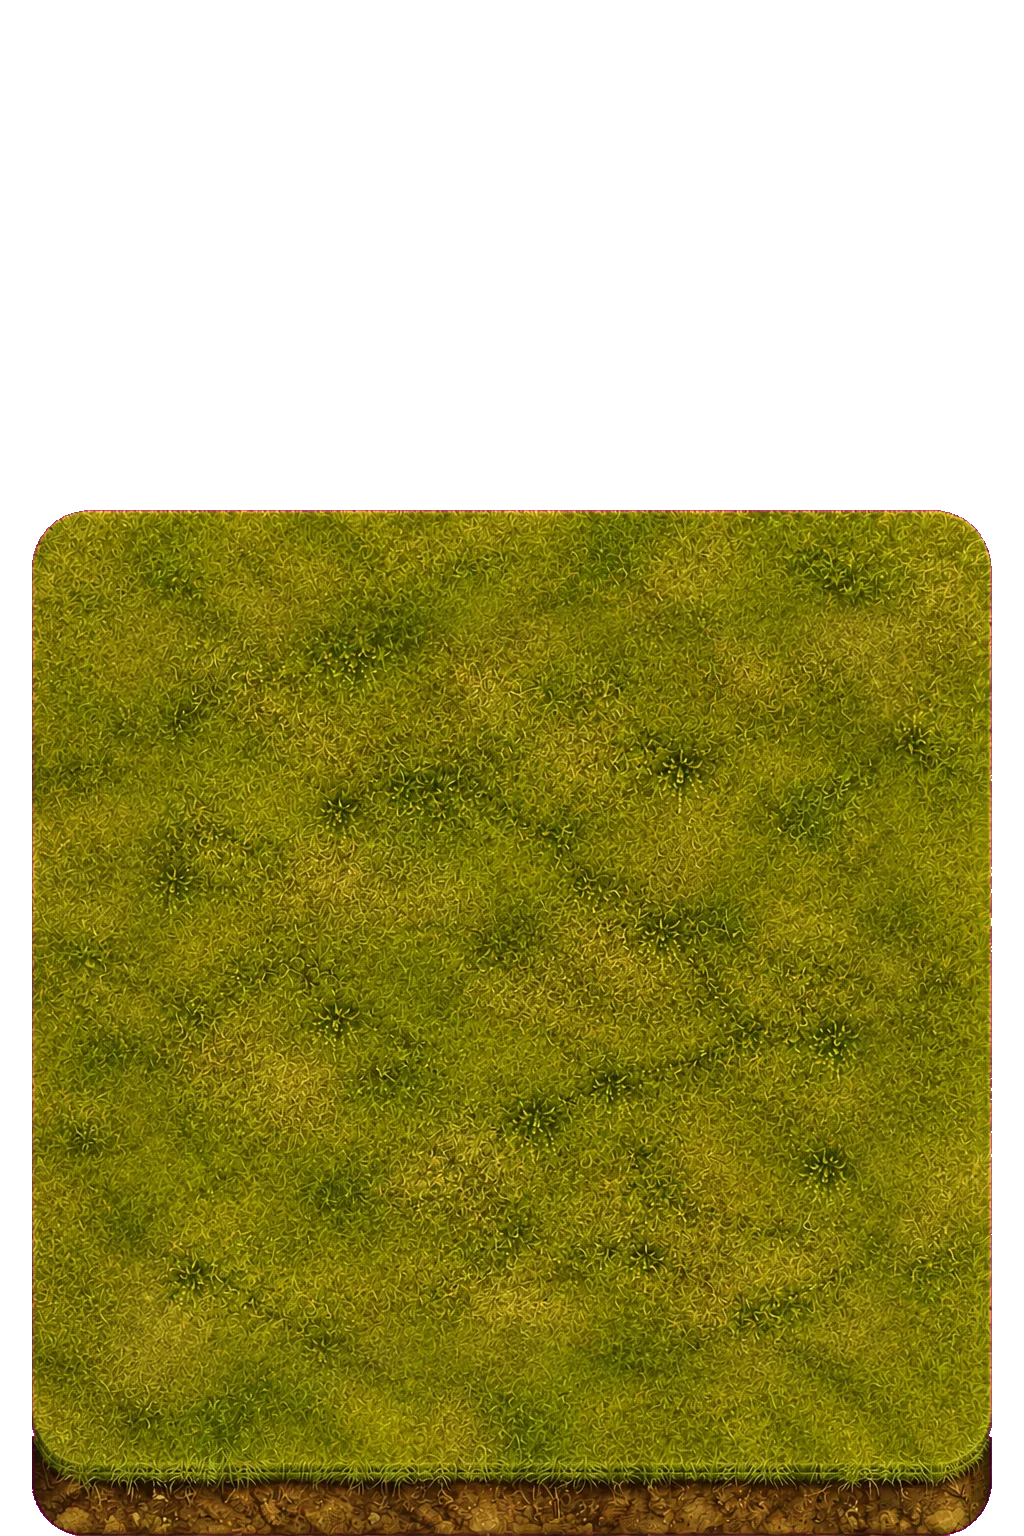
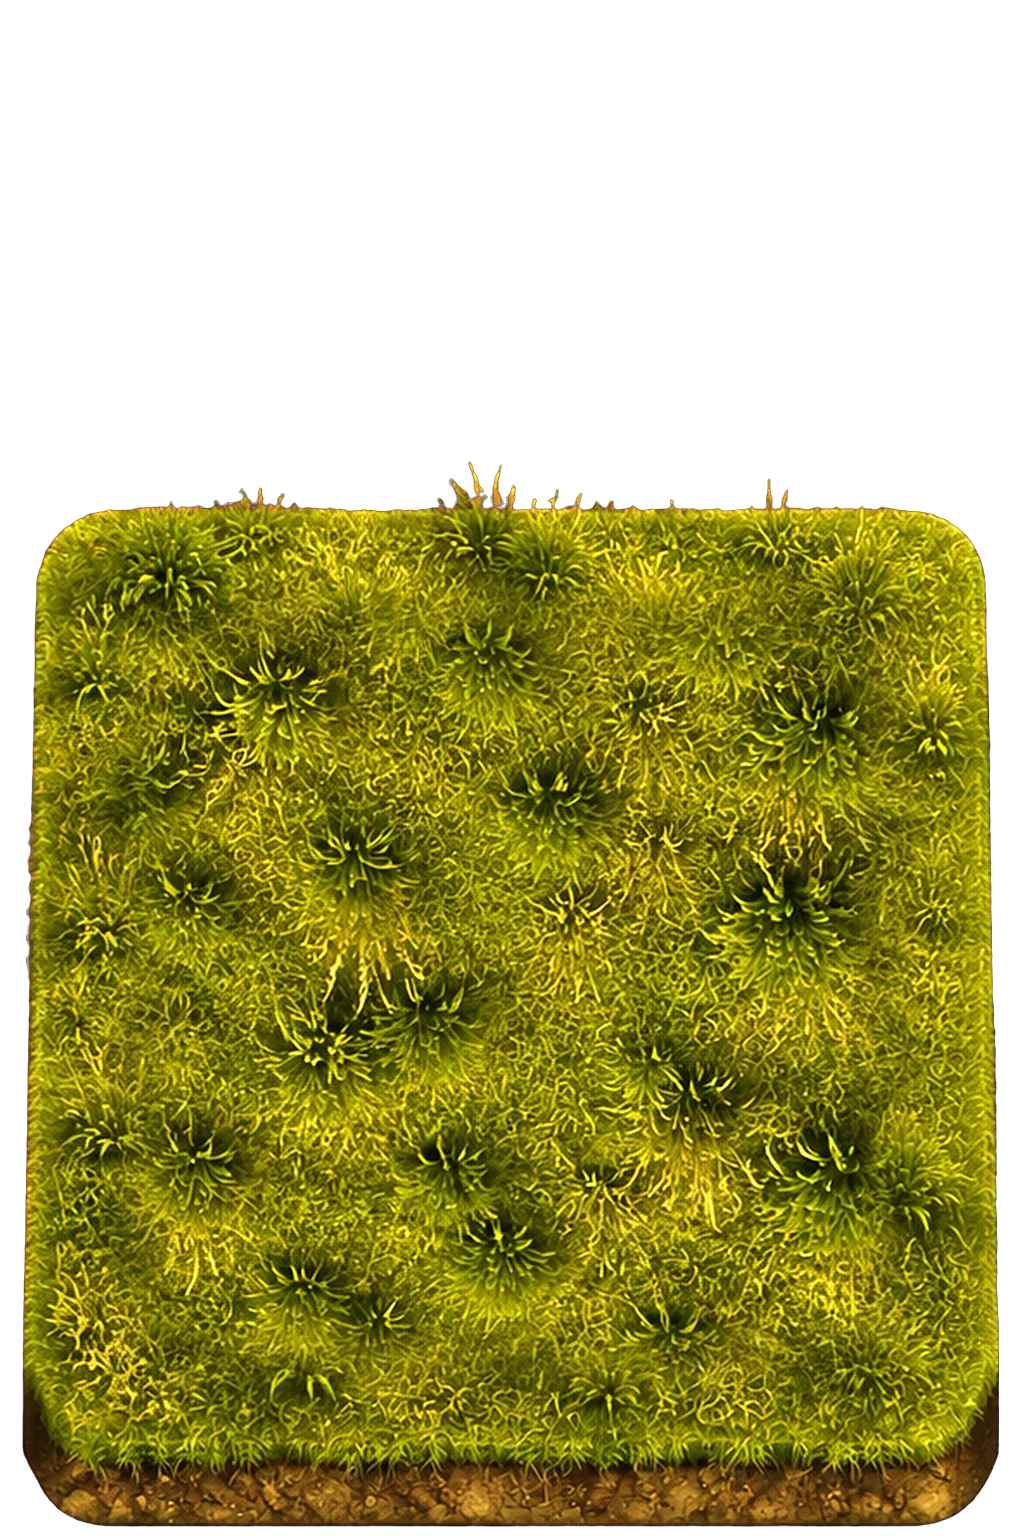
Grass v4: tufty grassland tiles, 16 grass details, a percentage detail rule
Visual only: no terrain type, rule or movement change. TERRAIN_STYLE 'v1'
still draws the old board untouched (the v1 path is not touched by this).

ART
- assets/terrain/v2/grass/ replaced with the grass v4 set: the 6 plain tiles
  (same names and canvas) and 16 detail tiles in grass/detail/ (grass_7 to
  grass_22). The 11 old detail files are deleted; nothing else used them.
- docs/terrain-v2/grass-v4/: the plan, the detail sheet, the target mockups
  and the expected 1v1 result, for the record. Not loaded by the game.

CODE (js/terrain-v2.js)
- GRASS_DETAIL_COUNT 16; GRASS_DETAIL_FILES in the new order (index = detail
  number).
- GRASS_DETAIL_ONE_IN = 5 replaced by GRASS_DETAIL_PERCENT = 30, tested as
  h(x,y,7) % 100 < GRASS_DETAIL_PERCENT. Why: "one in 4" gave fewer details
  than "one in 5" on this map because of where the hash lands; a
  percentage scales predictably. 30 gives 20 detail squares on the 1v1 map
  (was 15). The open-ground, farm-overlay and neighbour checks are unchanged,
  and the detail is still chosen by h(x,y,8) % GRASS_DETAIL_COUNT. Comment
  above grassPicks updated.
- render-units.js (preload) and check-assets.mjs read GRASS_DETAIL_FILES and
  picked up the new list with no change (asset check: 202 references, all
  present).
- Flagged and fixed: render-board.js had the old count written in twice,
  outside those two readers: the list of tiles the intro waits for (11
  details) and the number of v2 images the board cache expects (39). Both
[…]

diff --git a/js/terrain-v2.js b/js/terrain-v2.js
@@ -19,14 +19,19 @@ export function h(x, y, salt){
 const hPos = (x, y, s) => { const v = h(x, y, s); return v < 0 ? v + 1000003 : v; };
 
 export const GRASS_PLAIN_COUNT = 6;
-export const GRASS_DETAIL_COUNT = 11;           // grass/detail: grass_7 .. grass_17
-export const GRASS_DETAIL_ONE_IN = 5;           // one open square in this many may get a detail; lower it for more
+export const GRASS_DETAIL_COUNT = 16;           // grass/detail: grass_7 .. grass_22 (grass v4)
+/* The share of eligible squares that get a detail, as a percentage of the
+   h(x,y,7) range. A percentage scales predictably; the old "one in N" rule did
+   not (one in 4 gave fewer details than one in 5 on the 1v1 map, because of
+   where the hash lands). 30 gives 20 detail squares on the 1v1 map. */
+export const GRASS_DETAIL_PERCENT = 30;
 export const HILL_COUNT = 7;
 export const WOODS_COUNT = 4;
 export const FARM_COUNT = 4;
-export const GRASS_DETAIL_FILES = ['grass_7_lone_oak', 'grass_8_hawthorn', 'grass_9_poplars', 'grass_10_weeds_thistles',
-  'grass_11_campfire', 'grass_12_reed_pond', 'grass_13_shattered_stump', 'grass_14_broken_cart', 'grass_15_haystack',
-  'grass_16_fallen_posts', 'grass_17_stone_trough'];
+export const GRASS_DETAIL_FILES = ['grass_7_oak_single', 'grass_8_oak_pair', 'grass_9_oak_trio', 'grass_10_oak_pair_right',
+  'grass_11_poplars_weeds', 'grass_12_poplars_oak', 'grass_13_hedge_solo', 'grass_14_hedge_solo_left', 'grass_15_campfire_oak',
+  'grass_16_campfire_poplars_cart', 'grass_17_haystack_oak', 'grass_18_trough_oak', 'grass_19_pond_oak', 'grass_20_stump_weeds',
+  'grass_21_cart_stump', 'grass_22_posts_oak'];   // index = detail number
 
 /* ---------------------------------------------------------
    Farm overlay squares on the assembled map. Local board coordinates are
@@ -47,10 +52,11 @@ export function farmOverlaySet(layouts, placements, half, rotatePoint){
 
 /* ---------------------------------------------------------
    Grass. Plain: h(x,y,0) % 6, moved on to the next variant while it matches
-   the square to the left or above. Detail (grass/detail): only on OPEN squares
-   that are not farm overlay squares, one in GRASS_DETAIL_ONE_IN by h(x,y,7),
-   never beside another detail to the left, above, above-left or above-right;
-   which detail by h(x,y,8). Returns rows of { plain: 1..6, detail: 0..10 | -1 }.
+   the square to the left or above. Detail (grass/detail, 16 files): only on
+   OPEN squares that are not farm overlay squares, when h(x,y,7) % 100 is below
+   GRASS_DETAIL_PERCENT, never beside another detail to the left, above,
+   above-left or above-right; which detail by h(x,y,8) % GRASS_DETAIL_COUNT.
+   Returns rows of { plain: 1..6, detail: 0..15 | -1 }.
 --------------------------------------------------------- */
 export function grassPicks(terrain, overlay){
   const rows = terrain.length, cols = terrain[0].length;
@@ -62,7 +68,7 @@ export function grassPicks(terrain, overlay){
       const left = x > 0 ? row[x - 1].plain - 1 : -1, above = y > 0 ? out[y - 1][x].plain - 1 : -1;
       for(let k = 0; k < GRASS_PLAIN_COUNT && (p === left || p === above); k++) p = (p + 1) % GRASS_PLAIN_COUNT;
       let detail = -1;
-      if(terrain[y][x] === 'OPEN' && !overlay.has(x + ',' + y) && hPos(x, y, 7) % GRASS_DETAIL_ONE_IN === 0){
+      if(terrain[y][x] === 'OPEN' && !overlay.has(x + ',' + y) && hPos(x, y, 7) % 100 < GRASS_DETAIL_PERCENT){
         const near = [[x - 1, y], [x, y - 1], [x - 1, y - 1], [x + 1, y - 1]].some(([nx, ny]) =>
           ny >= 0 && nx >= 0 && nx < cols && (ny === y ? row[nx] : out[ny][nx]).detail >= 0);
         if(!near) detail = hPos(x, y, 8) % GRASS_DETAIL_COUNT;

diff --git a/js/render-board.js b/js/render-board.js
@@ -1,6 +1,6 @@
 import { AudioManager } from './audio-manager.js';
 import { CELL, COLS, HALF_COLS, ROWS, SIDES, SIDE_LABEL, TB_DATA, TERRAIN_STYLE, UNIT_TYPES, edgeKey, rotatePointCW, setCell, state } from './data-core.js';
-import { ROAD, buildRoadGraph, farmMirrored, farmOverlaySet, farmPicks, grassPicks, hillPick, roadChains, smoothChain, woodsPick } from './terrain-v2.js';
+import { FARM_COUNT, GRASS_DETAIL_COUNT, HILL_COUNT, ROAD, WOODS_COUNT, buildRoadGraph, farmMirrored, farmOverlaySet, farmPicks, grassPicks, hillPick, roadChains, smoothChain, woodsPick } from './terrain-v2.js';
 import { clearAmbushIfOutOfWoods, inBounds, isRoadLike, movableUnitsForSide, neighbors8, terrainAt, unitsAt } from './engine-rules.js';
 import { log, logReplay } from './engine-state.js';
 import { UNIT_IMAGES, drawColumnUnitPair, drawUnit, highlightCells } from './render-units.js';
@@ -1449,7 +1449,7 @@ function drawRoadsV2(lay){
    layout, viewpoint, cell size, village styles or the set of loaded tiles
    changes. Craters, units and everything else still draw fresh each frame. */
 const v2BoardCache = new WeakMap();
-const V2_EXPECTED = 39;
+const V2_EXPECTED = 6 + GRASS_DETAIL_COUNT + HILL_COUNT + FARM_COUNT + WOODS_COUNT + 6 + 1;   // every v2 image: derived, so a new art set cannot leave it stale
 function drawTerrainV2(){
   const lay = v2Layout();
   const key = [viewEdge(), CELL, canvas.width, canvas.height, v2LoadedCount, V2_EXPECTED].join('|');
@@ -1501,7 +1501,7 @@ function drawV2Overlay(lay, terrain, x, y, dy){
    needs them all at once (the intro). Waits up to timeoutMs for the art to
    download; a file that fails is skipped rather than waited for. */
 const V2_ALL_KEYS = [
-  ...[1,2,3,4,5,6].map(i => 'v2_grass_' + i), ...[...Array(11).keys()].map(i => 'v2_detail_' + i),
+  ...[1,2,3,4,5,6].map(i => 'v2_grass_' + i), ...[...Array(GRASS_DETAIL_COUNT).keys()].map(i => 'v2_detail_' + i),
   ...[1,2,3,4,5,6,7].map(i => 'v2_hill_' + i), ...[1,2,3,4].map(i => 'v2_farm_' + i),
   ...[1,2,3,4].map(i => 'v2_woods_' + i), ...[1,2,3,4,5,6].map(i => 'v2_building_' + i), 'v2_crater',
 ];

diff --git a/test/terrain-v2.test.js b/test/terrain-v2.test.js
@@ -65,3 +65,13 @@ test('grass: plain never matches the left or above neighbour; details are spaced
     }
   }
 });
+
+test('grass v4: exactly the expected 20 detail squares and files on the 1v1 map', async () => {
+  const { GRASS_DETAIL_FILES } = await import('../js/terrain-v2.js');
+  const want = JSON.parse(readFileSync(new URL('../docs/terrain-v2/grass-v4/expected_grass_details_1v1.json', import.meta.url)));
+  const g = grassPicks(map, overlay);
+  const got = {};
+  for (let y = 0; y < 10; y++) for (let x = 0; x < 20; x++) if (g[y][x].detail >= 0) got[`${x},${y}`] = GRASS_DETAIL_FILES[g[y][x].detail];
+  assert.equal(Object.keys(got).length, want.count);
+  assert.deepEqual(got, want.details);
+});

diff --git a/docs/terrain-v2/grass-v4/PLAN.md b/docs/terrain-v2/grass-v4/PLAN.md
@@ -1,0 +1,25 @@
+Grass v4: new tufty grassland tiles and a richer set of grass details. Attached: grass_v4.zip. Visual only, no gameplay changes. TERRAIN_STYLE 'v1' must still restore the old board untouched.
+
+1. ART
+- Replace everything in assets/terrain/v2/grass/ with the zip's grass/ folder: 6 plain tiles (grass_1 to grass_6, same filenames and canvas as before) and 16 detail tiles in grass/detail/ (grass_7 to grass_22).
+- Delete the 11 old detail files. They are not used by anything else.
+- Copy the zip's docs/ folder into docs/terrain-v2/grass-v4/ for the record. Do not load it in the game.
+
+2. CODE (js/terrain-v2.js)
+- GRASS_DETAIL_COUNT = 16.
+- GRASS_DETAIL_FILES, in this order (index = detail number):
+  grass_7_oak_single, grass_8_oak_pair, grass_9_oak_trio, grass_10_oak_pair_right, grass_11_poplars_weeds, grass_12_poplars_oak, grass_13_hedge_solo, grass_14_hedge_solo_left, grass_15_campfire_oak, grass_16_campfire_poplars_cart, grass_17_haystack_oak, grass_18_trough_oak, grass_19_pond_oak, grass_20_stump_weeds, grass_21_cart_stump, grass_22_posts_oak
+- Replace GRASS_DETAIL_ONE_IN = 5 with GRASS_DETAIL_PERCENT = 30, and change the test in grassPicks from hPos(x, y, 7) % GRASS_DETAIL_ONE_IN === 0 to hPos(x, y, 7) % 100 < GRASS_DETAIL_PERCENT. Keep the open-ground, farm-overlay and neighbour checks exactly as they are, and keep choosing which detail with hPos(x, y, 8) % GRASS_DETAIL_COUNT.
+- Update the comment above grassPicks to match (percent instead of one-in-N, 16 details).
+- Why the change of rule: "one in 4" was tried and actually gave fewer details than "one in 5" on this map because of where the hash lands. A percentage scales predictably. 30 gives 20 detail squares on the 1v1 map, up from 15.
+- check-assets.mjs and render-units.js already read GRASS_DETAIL_FILES, so they should pick up the new list without changes. Confirm that.
+
+3. VERIFY
+- Add a test (or extend the grass test) that on the 1v1 map grassPicks produces exactly the detail squares and files in docs/terrain-v2/grass-v4/expected_grass_details_1v1.json (20 squares).
+- Playwright screenshot 1v1 South and one Online Group view. Detail placement should match docs/terrain-v2/grass-v4/target_full_map.jpg. Plain grass variants may sit differently, that's fine.
+- Screenshot once with TERRAIN_STYLE 'v1' to confirm the old board is unchanged.
+- Full check set before pushing: node --check on all JS files, check-assets.mjs, check-module-boundaries.mjs, eslint at the 8-warning / 0-error baseline, all tests passing with the usual 1 skipped.
+- Update docs/terrain-v2/HANDOVER.md's grass detail line so it describes the new rule.
+- Long commit message explaining what changed and why.
+
+Flag anything that doesn't fit the code as it stands rather than working around it.

diff --git a/docs/terrain-v2/HANDOVER.md b/docs/terrain-v2/HANDOVER.md
@@ -27,7 +27,7 @@ Every image is centred on its cell, top edge at cell top minus half a cell, alwa
 
 Grass picking:
 - Plain grass (grass_1..6): hash of (x,y) mod 6, bumped to the next variant if it matches the left or above neighbour.
-- Detail grass (grass/detail, 11 files): only on OPEN squares that are not farm overlay squares. If hash(x,y,7) % 5 == 0 and none of the left, above, above-left or above-right squares already has a detail, use detail number hash(x,y,8) % 11. Put the 5 in a named constant (GRASS_DETAIL_ONE_IN); it will be lowered later for more detail.
+- Detail grass (grass/detail, 16 files, grass v4 of 1 Oct 2026): only on OPEN squares that are not farm overlay squares. If hash(x,y,7) % 100 < GRASS_DETAIL_PERCENT (30) and none of the left, above, above-left or above-right squares already has a detail, use detail number hash(x,y,8) % 16 (GRASS_DETAIL_FILES order). Raise or lower GRASS_DETAIL_PERCENT for more or less detail; it scales predictably, where the old one-in-N rule did not. See docs/terrain-v2/grass-v4/.
 - ROAD, WOODS, BUILDING and farm squares always get plain grass underneath.
 
 Farm picking: port reference/farms_reference.py. The farm set is every PLOUGHED_FIELD square plus every farm overlay square, on the assembled map. Contiguous blocks are split into fields of 2 or 3 squares along each row; blocks of 3 or more squares use all four farm tiles, smaller blocks keep one set; touching fields never share a tile. Mirror the farm image horizontally on squares where x+y is odd. This replaces the old farm grouping rule.
